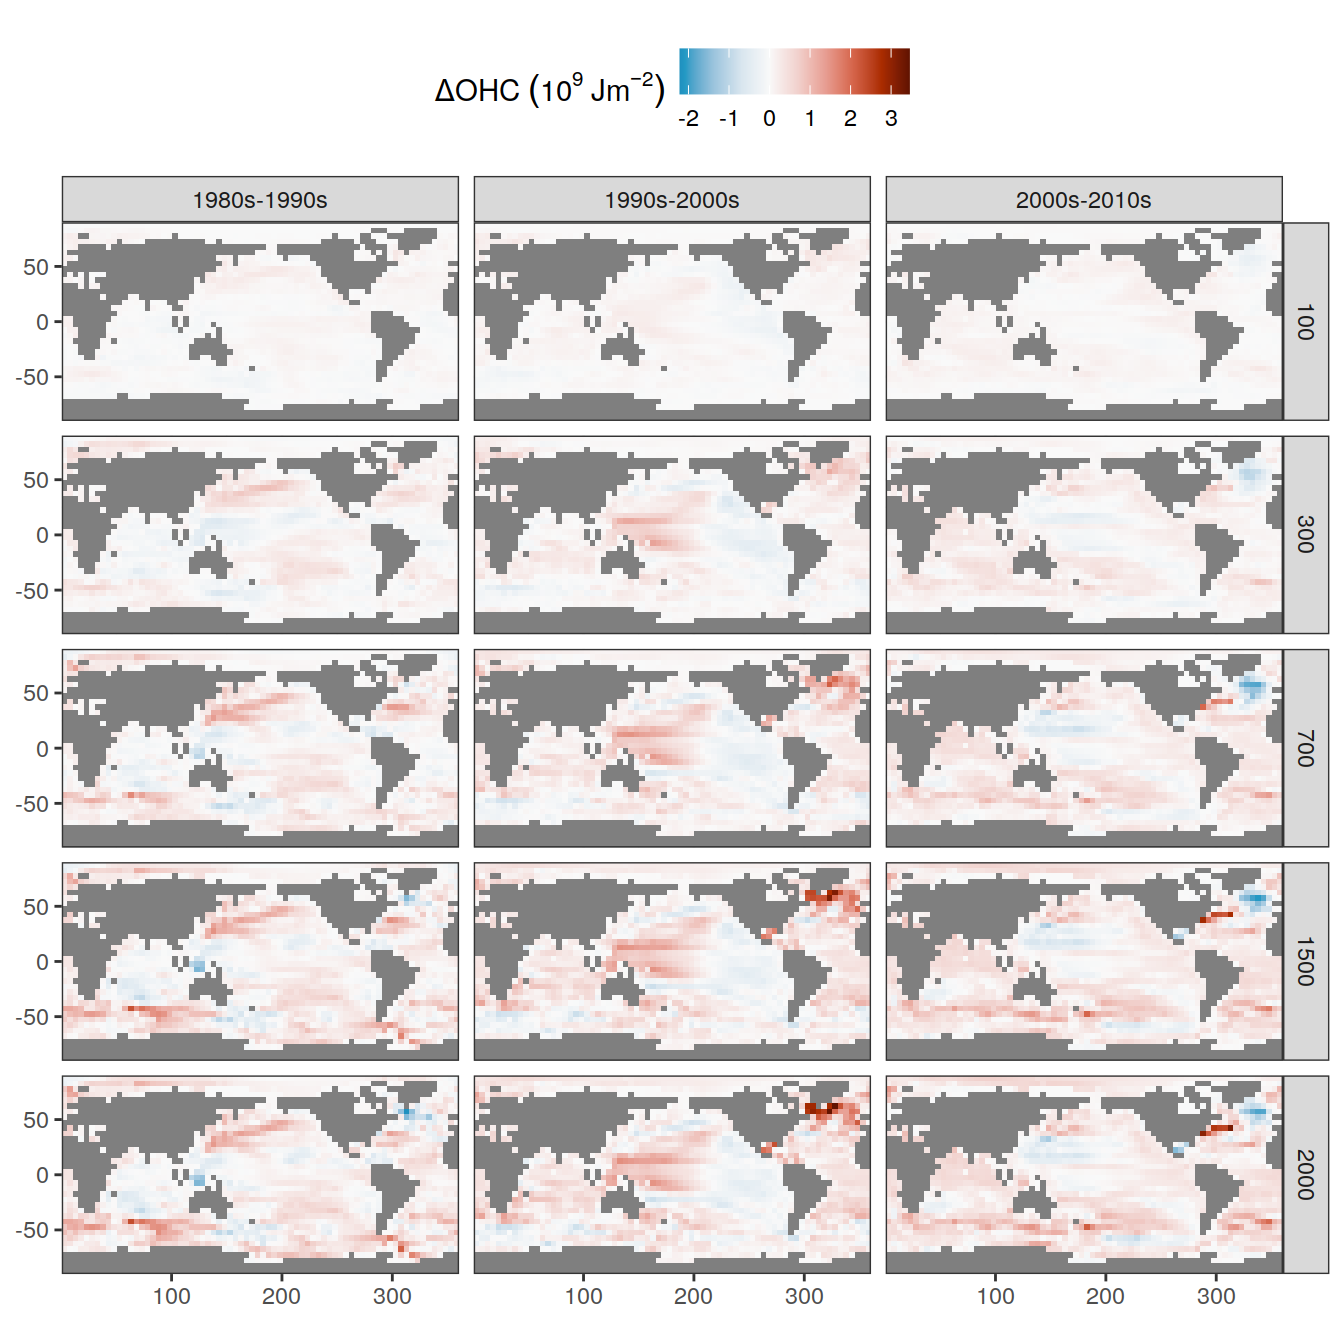
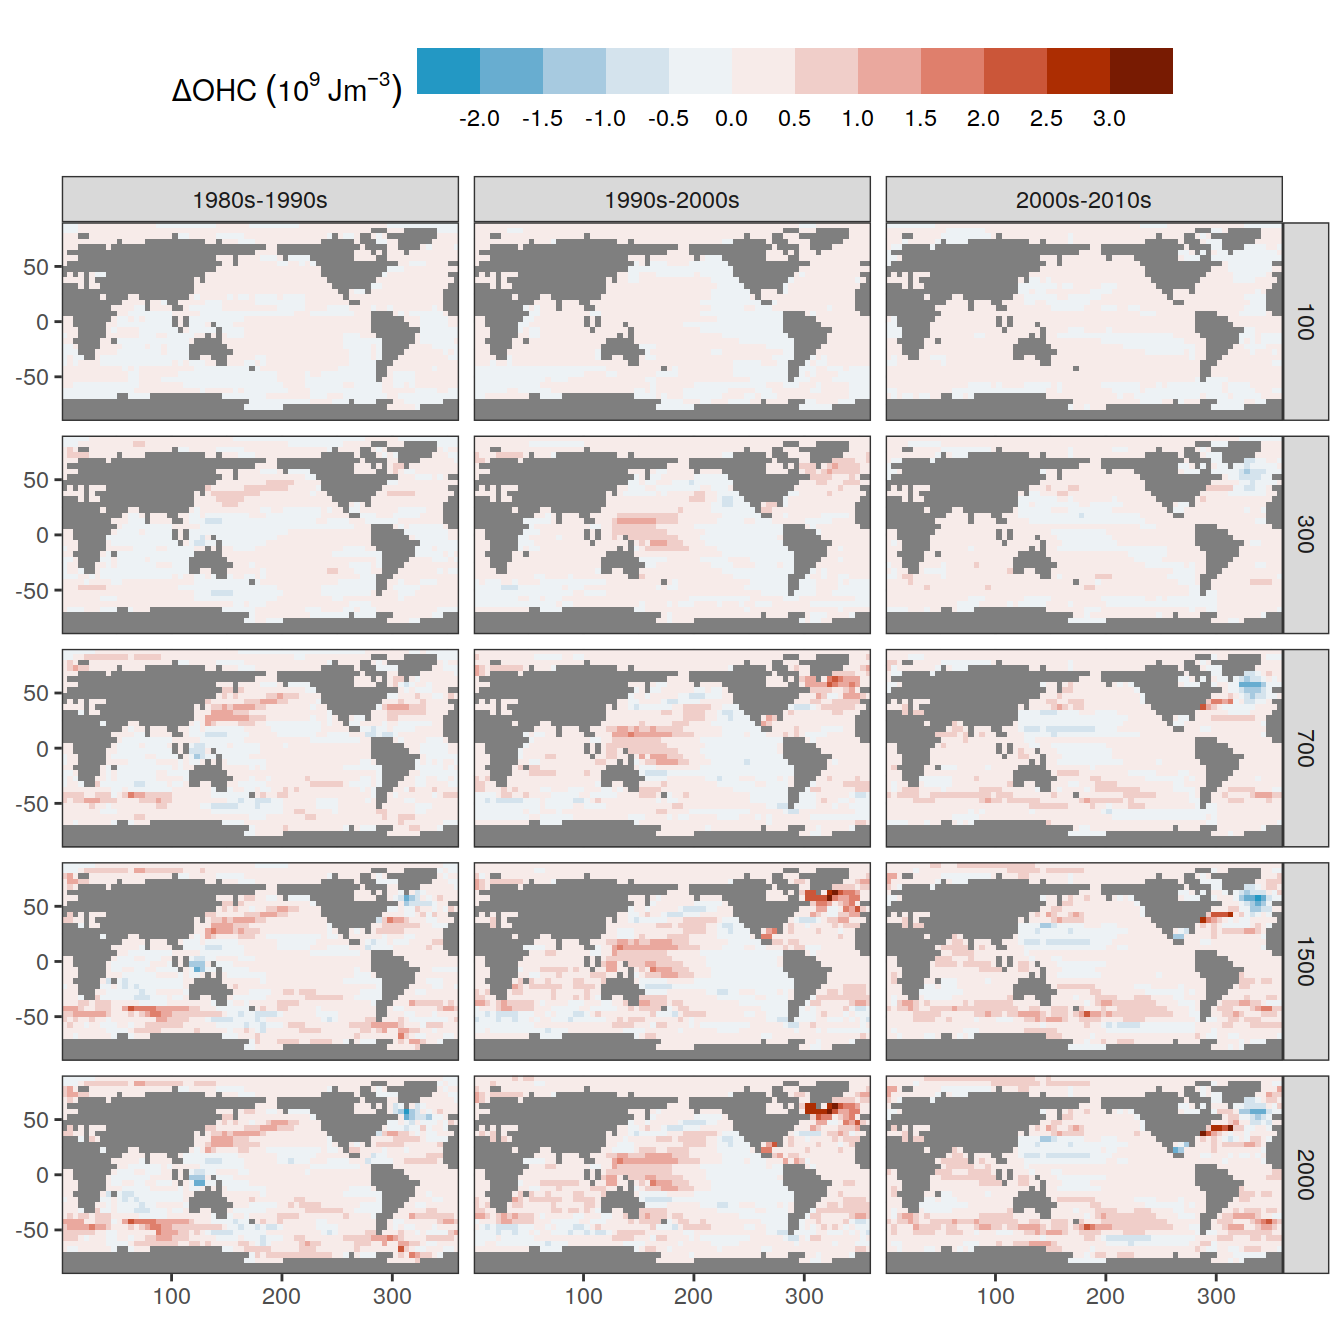
Build site.

Changed region(s): [[0.2812, 0.0312, 0.875, 0.0938], [0.125, 0.0625, 0.2812, 0.0938]]

diff --git a/docs/read_ohc_data.html b/docs/read_ohc_data.html
@@ -503,16 +503,16 @@ This reproducible <a href="https://rmarkdown.rstudio.com">R Markdown</a> analysi
 <div class="panel panel-default">
 <div class="panel-heading">
 <p class="panel-title">
-<a data-toggle="collapse" data-parent="#workflowr-checks" href="#strongRepositoryversionstrongahrefhttpsgithubcomjensdanielmuelleroceanheatandcarboncontenttree4d139a4c3a02563acbc4988439467d66977afe4ctargetblank4d139a4a"> <span class="glyphicon glyphicon-ok text-success" aria-hidden="true"></span> <strong>Repository version:</strong> <a href="https://github.com/jens-daniel-mueller/ocean_heat_and_carbon_content/tree/4d139a4c3a02563acbc4988439467d66977afe4c" target="_blank">4d139a4</a> </a>
+<a data-toggle="collapse" data-parent="#workflowr-checks" href="#strongRepositoryversionstrongahrefhttpsgithubcomjensdanielmuelleroceanheatandcarboncontenttree56c9b10e85a823da6e859d675dbebaf33c1dc569targetblank56c9b10a"> <span class="glyphicon glyphicon-ok text-success" aria-hidden="true"></span> <strong>Repository version:</strong> <a href="https://github.com/jens-daniel-mueller/ocean_heat_and_carbon_content/tree/56c9b10e85a823da6e859d675dbebaf33c1dc569" target="_blank">56c9b10</a> </a>
 </p>
 </div>
[2 lines of base64/hex data omitted]
 <div class="panel-body">
 <p>
 Great! You are using Git for version control. Tracking code development and connecting the code version to the results is critical for reproducibility.
 </p>
 <p>
-The results in this page were generated with repository version <a href="https://github.com/jens-daniel-mueller/ocean_heat_and_carbon_content/tree/4d139a4c3a02563acbc4988439467d66977afe4c" target="_blank">4d139a4</a>. See the <em>Past versions</em> tab to see a history of the changes made to the R Markdown and HTML files.
+The results in this page were generated with repository version <a href="https://github.com/jens-daniel-mueller/ocean_heat_and_carbon_content/tree/56c9b10e85a823da6e859d675dbebaf33c1dc569" target="_blank">56c9b10</a>. See the <em>Past versions</em> tab to see a history of the changes made to the R Markdown and HTML files.
 </p>
 <p>
 Note that you need to be careful to ensure that all relevant files for the analysis have been committed to Git prior to generating the results (you can use <code>wflow_publish</code> or <code>wflow_git_commit</code>). workflowr only checks the R Markdown file, but you know if there are other scripts or data files that it depends on. Below is the status of the Git repository when the results were generated:
@@ -521,6 +521,7 @@ Note that you need to be careful to ensure that all relevant files for the analy
 Ignored files:
     Ignored:    .Rhistory
     Ignored:    .Rproj.user/
+    Ignored:    analysis/figure/
 
 Untracked files:
     Untracked:  code/Workflowr_project_managment.R
@@ -562,6 +563,40 @@ Message
 </tr>
 </thead>
 <tbody>
+<tr>
+<td>
+Rmd
+</td>
+<td>
+<a href="https://github.com/jens-daniel-mueller/ocean_heat_and_carbon_content/blob/56c9b10e85a823da6e859d675dbebaf33c1dc569/analysis/read_ohc_data.Rmd" target="_blank">56c9b10</a>
+</td>
+<td>
+jens-daniel-mueller
+</td>
+<td>
+2022-09-02
+</td>
+<td>
+adapted color legend to top
+</td>
+</tr>
+<tr>
+<td>
+html
+</td>
+<td>
+<a href="https://rawcdn.githack.com/jens-daniel-mueller/ocean_heat_and_carbon_content/8f2b2309c8abee114c8e193682956b351dd31d6f/docs/read_ohc_data.html" target="_blank">8f2b230</a>
+</td>
+<td>
+jens-daniel-mueller
+</td>
+<td>
+2022-09-02
+</td>
+<td>
+Build site.
+</td>
+</tr>
 <tr>
 <td>
 Rmd
@@ -872,6 +907,17 @@ Date
 <tbody>
 <tr>
 <td>
+<a href="https://github.com/jens-daniel-mueller/ocean_heat_and_carbon_content/blob/8f2b2309c8abee114c8e193682956b351dd31d6f/docs/figure/read_ohc_data.Rmd/absolute_column_inventories-1.png" target="_blank">8f2b230</a>
+</td>
+<td>
+jens-daniel-mueller
+</td>
+<td>
+2022-09-02
+</td>
+</tr>
+<tr>
+<td>
 <a href="https://github.com/jens-daniel-mueller/ocean_heat_and_carbon_content/blob/7b444c50f8a03ac899715fd4e2aa0d0554c5d140/docs/figure/read_ohc_data.Rmd/absolute_column_inventories-1.png" target="_blank">7b444c5</a>
 </td>
 <td>
@@ -908,6 +954,17 @@ Date
 </tr>
 </thead>
 <tbody>
+<tr>
+<td>
+<a href="https://github.com/jens-daniel-mueller/ocean_heat_and_carbon_content/blob/8f2b2309c8abee114c8e193682956b351dd31d6f/docs/figure/read_ohc_data.Rmd/absolute_column_inventories-2.png" target="_blank">8f2b230</a>
+</td>
+<td>
+jens-daniel-mueller
+</td>
+<td>
+2022-09-02
+</td>
+</tr>
 <tr>
 <td>
 <a href="https://github.com/jens-daniel-mueller/ocean_heat_and_carbon_content/blob/7b444c50f8a03ac899715fd4e2aa0d0554c5d140/docs/figure/read_ohc_data.Rmd/absolute_column_inventories-2.png" target="_blank">7b444c5</a>
@@ -948,6 +1005,17 @@ Date
 <tbody>
 <tr>
 <td>
+<a href="https://github.com/jens-daniel-mueller/ocean_heat_and_carbon_content/blob/8f2b2309c8abee114c8e193682956b351dd31d6f/docs/figure/read_ohc_data.Rmd/absolute_column_inventories-3.png" target="_blank">8f2b230</a>
+</td>
+<td>
+jens-daniel-mueller
+</td>
+<td>
+2022-09-02
+</td>
+</tr>
+<tr>
+<td>
 <a href="https://github.com/jens-daniel-mueller/ocean_heat_and_carbon_content/blob/7b444c50f8a03ac899715fd4e2aa0d0554c5d140/docs/figure/read_ohc_data.Rmd/absolute_column_inventories-3.png" target="_blank">7b444c5</a>
 </td>
 <td>
@@ -986,6 +1054,17 @@ Date
 <tbody>
 <tr>
 <td>
+<a href="https://github.com/jens-daniel-mueller/ocean_heat_and_carbon_content/blob/8f2b2309c8abee114c8e193682956b351dd31d6f/docs/figure/read_ohc_data.Rmd/absolute_column_inventories-4.png" target="_blank">8f2b230</a>
+</td>
+<td>
+jens-daniel-mueller
+</td>
+<td>
+2022-09-02
+</td>
+</tr>
+<tr>
+<td>
 <a href="https://github.com/jens-daniel-mueller/ocean_heat_and_carbon_content/blob/7b444c50f8a03ac899715fd4e2aa0d0554c5d140/docs/figure/read_ohc_data.Rmd/absolute_column_inventories-4.png" target="_blank">7b444c5</a>
 </td>
 <td>
@@ -1022,6 +1101,17 @@ Date
 </tr>
 </thead>
 <tbody>
+<tr>
+<td>
+<a href="https://github.com/jens-daniel-mueller/ocean_heat_and_carbon_content/blob/8f2b2309c8abee114c8e193682956b351dd31d6f/docs/figure/read_ohc_data.Rmd/absolute_column_inventories-5.png" target="_blank">8f2b230</a>
+</td>
+<td>
+jens-daniel-mueller
+</td>
+<td>
+2022-09-02
+</td>
+</tr>
 <tr>
 <td>
 <a href="https://github.com/jens-daniel-mueller/ocean_heat_and_carbon_content/blob/7b444c50f8a03ac899715fd4e2aa0d0554c5d140/docs/figure/read_ohc_data.Rmd/absolute_column_inventories-5.png" target="_blank">7b444c5</a>
@@ -1073,12 +1163,16 @@ ohc_decade_change %&gt;%
   ggplot(aes(lon, lat, fill = delta_OHC)) +
   geom_raster() +
   coord_quickmap(expand = 0) +
-  scale_fill_continuous_divergingx(palette = &quot;RdBu&quot;,
-                                   rev = TRUE,
-                                   name = expression(Delta * OHC ~ (10 ^ 9 ~ J * m ^ -2))) +
+  scale_fill_binned_divergingx(
+    palette = &quot;RdBu&quot;,
+    rev = TRUE,
+    name = expression(Delta * OHC ~ (10 ^ 9 ~ J * m ^ -3)),
+    n.breaks = 10
+  ) +
   facet_grid(depth ~ delta_decade) +
   theme(axis.title = element_blank(),
-        legend.position = &quot;top&quot;)</code></pre>
+        legend.position = &quot;top&quot;,
+        legend.key.width = unit(2, &#39;cm&#39;))</code></pre>
 <p><img src="figure/read_ohc_data.Rmd/decadal_changes_total_column_inventories-1.png" width="672" style="display: block; margin: auto;" /></p>
 <p>
 <button type="button" class="btn btn-default btn-xs btn-workflowr btn-workflowr-fig" data-toggle="collapse" data-target="#fig-decadal_changes_total_column_inventories-1">
@@ -1148,12 +1242,16 @@ ohc_decade_change_layer %&gt;%
   ggplot(aes(lon, lat, fill = delta_OHC_layer)) +
   geom_raster() +
   coord_quickmap(expand = 0) +
-  scale_fill_binned_divergingx(palette = &quot;RdBu&quot;,
-                                   rev = TRUE,
-                                   name = expression(Delta * OHC ~ (10 ^ 9 ~ J * m ^ -2))) +
-  facet_grid(layer~delta_decade) +
+  scale_fill_binned_divergingx(
+    palette = &quot;RdBu&quot;,
+    rev = TRUE,
+    name = expression(Delta * OHC ~ (10 ^ 9 ~ J * m ^ -3)),
+    n.breaks = 10
+  ) +
+  facet_grid(layer ~ delta_decade) +
   theme(axis.title = element_blank(),
-        legend.position = &quot;top&quot;)</code></pre>
+        legend.position = &quot;top&quot;,
+        legend.key.width = unit(2, &#39;cm&#39;))</code></pre>
 <p><img src="figure/read_ohc_data.Rmd/decadal_changes_column_inventories_depth_layer_total-1.png" width="672" style="display: block; margin: auto;" /></p>
 <p>
 <button type="button" class="btn btn-default btn-xs btn-workflowr btn-workflowr-fig" data-toggle="collapse" data-target="#fig-decadal_changes_column_inventories_depth_layer_total-1">
@@ -1177,6 +1275,17 @@ Date
 </tr>
 </thead>
 <tbody>
+<tr>
+<td>
+<a href="https://github.com/jens-daniel-mueller/ocean_heat_and_carbon_content/blob/8f2b2309c8abee114c8e193682956b351dd31d6f/docs/figure/read_ohc_data.Rmd/decadal_changes_column_inventories_depth_layer_total-1.png" target="_blank">8f2b230</a>
+</td>
+<td>
+jens-daniel-mueller
+</td>
+<td>
+2022-09-02
+</td>
+</tr>
 <tr>
 <td>
 <a href="https://github.com/jens-daniel-mueller/ocean_heat_and_carbon_content/blob/7b444c50f8a03ac899715fd4e2aa0d0554c5d140/docs/figure/read_ohc_data.Rmd/decadal_changes_column_inventories_depth_layer_total-1.png" target="_blank">7b444c5</a>
@@ -1232,6 +1341,17 @@ Date
 </tr>
 </thead>
 <tbody>
+<tr>
+<td>
+<a href="https://github.com/jens-daniel-mueller/ocean_heat_and_carbon_content/blob/8f2b2309c8abee114c8e193682956b351dd31d6f/docs/figure/read_ohc_data.Rmd/decadal_changes_column_inventories_depth_layer_concentration-1.png" target="_blank">8f2b230</a>
+</td>
+<td>
+jens-daniel-mueller
+</td>
+<td>
+2022-09-02
+</td>
+</tr>
 <tr>
 <td>
 <a href="https://github.com/jens-daniel-mueller/ocean_heat_and_carbon_content/blob/7b444c50f8a03ac899715fd4e2aa0d0554c5d140/docs/figure/read_ohc_data.Rmd/decadal_changes_column_inventories_depth_layer_concentration-1.png" target="_blank">7b444c5</a>
